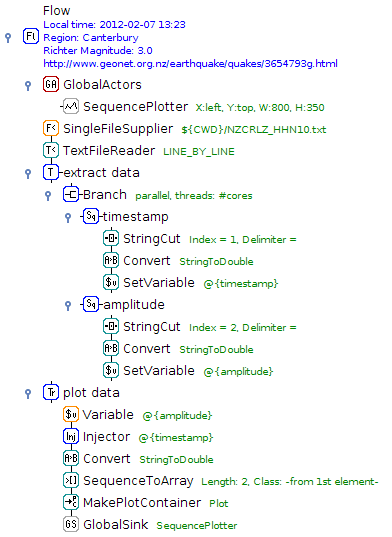
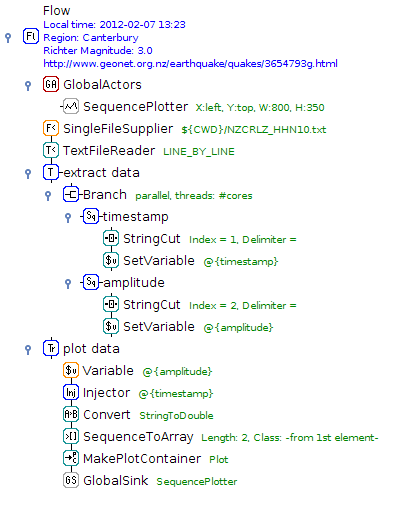
updated screenshot, this time without Convert actor; replaced Convert in text with StringCut transformer

Changed region(s): [[0.0, 0.0, 0.9796, 1.0]]

diff --git a/ecml2012demo.tex b/ecml2012demo.tex
@@ -74,7 +74,7 @@ In this paper, we present ADAMS (Advanced Data mining And Machine learning Syste
   \vspace{-20pt}
 \end{wrapfigure}
 
-Figure \ref{flow} illustrates an ADAMS workflow. It reads a file with earthquake data and plots it.\footnote{Simpler flows exist. This workflow is designed to explain ADAMS' control actors.} Operators (called `actors') are dragged from a library into the flow, and will automatically `snap' into the tree structure depending on where they are dropped. Actors are shown as nodes with a name and a list of parameter settings (options). They are color-coded based on whether they are a \emph{source} (only output, e.g. \texttt{SingleFileSupplier}~\icon{source}), \emph{transformer} (input and output, e.g. \texttt{Convert}~\icon{transformer}), \emph{sink} (only input, e.g. \texttt{SequencePlotter}~\icon{sink}) or \emph{standalone} (no in/output, e.g. \texttt{GlobalActors}~\icon{standalone}). Branches can be collapsed, and clicking actors opens a settings dialog. Some actors are fine-grained, allowing data to be manipulated within the flow, instead of requiring new actors.
+Figure \ref{flow} illustrates an ADAMS workflow. It reads a file with earthquake data and plots it.\footnote{Simpler flows exist. This workflow is designed to explain ADAMS' control actors.} Operators (called `actors') are dragged from a library into the flow, and will automatically `snap' into the tree structure depending on where they are dropped. Actors are shown as nodes with a name and a list of parameter settings (options). They are color-coded based on whether they are a \emph{source} (only output, e.g. \texttt{SingleFileSupplier}~\icon{source}), \emph{transformer} (input and output, e.g. \texttt{StringCut}~\icon{stringcut}), \emph{sink} (only input, e.g. \texttt{SequencePlotter}~\icon{sink}) or \emph{standalone} (no in/output, e.g. \texttt{GlobalActors}~\icon{standalone}). Branches can be collapsed, and clicking actors opens a settings dialog. Some actors are fine-grained, allowing data to be manipulated within the flow, instead of requiring new actors.
 
 \paragraph{Tokens.} Data are passed as \emph{tokens} wrapping a single Java object (e.g. a string or an entire dataset), as well as provenance information: a trace of actors affecting the data. Tokens can assume any level of granularity: actors can receive a single token (e.g., a dataset) and emit many (e.g., data points), or vice versa, buffer tokens and emit an array (e.g., the \texttt{SequenceToArray} actor). Actors with several outputs can attach a key to each token, creating a key-value pair. Many such pairs can be combined in a \emph{container}, and other actors can extract tokens based on their keys. For instance, \texttt{MakePlotContainer} attaches `X' and `Y' keys so that data can be plotted.
 
